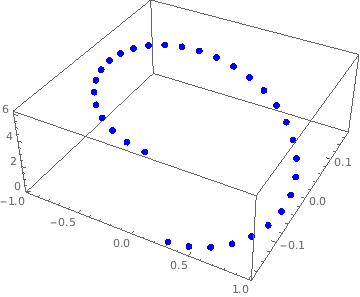
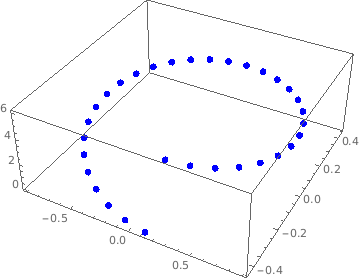
pi-aware NN-clock

diff --git a/tex/appendix/nb/wolfram/n-level.tex b/tex/appendix/nb/wolfram/n-level.tex
@@ -14,18 +14,17 @@ NN := 32
 \end{Verbatim}
 
 \begin{Verbatim}
-T := DiagonalMatrix[Range[0,NN-1]]
+T := DiagonalMatrix[Range[0,NN-1]] * \[Pi] / 16
 \end{Verbatim}
 
 \begin{Verbatim}
 F := FourierMatrix[NN]
 \end{Verbatim}
 
-For simplicity, $\hbar = 1$, there's no ``characteristic frequency'' $\omega$,
-and we ignore the dimensional term in front of \eqref{eq:SI_Fourier:T}:
+For simplicity, $\hbar = \omega = 1$
 
 \begin{Verbatim}
-\[CapitalOmega] := F.T.F\[ConjugateTranspose] 
+\[CapitalOmega] := F.T.F\[ConjugateTranspose]  * 16 / \[Pi]
 \end{Verbatim}
 
 Hamiltonian in "ordinary" space
@@ -79,14 +78,6 @@ probability := Abs[chosenEigenvectorNormalized ^2]
 
 probabilityB := Abs[chosenEigenvectorNormalizedB^2]
 
-probability
-
-Out[ ]= {0.716702, 0.283298, 0.771924, 0.228076, 0.785749, 0.214251, 0.756071, 0.243929, 0.687408, 0.312592, 0.590214, 0.409786, 0.479286, 0.520714, 0.371512, 0.628488, 0.283298, 0.716702, 0.228076, 0.771924, 0.214251, 0.785749, 0.243929, 0.756071, 0.312592, 0.687408, 0.409786, 0.590214, 0.520714, 0.479286, 0.628488, 0.371512, 0.716702, 0.283298, 0.771924, 0.228076, 0.785749, 0.214251, 0.756071, 0.243929, 0.687408, 0.312592, 0.590214, 0.409786, 0.479286, 0.520714, 0.371512, 0.628488, 0.283298, 0.716702, 0.228076, 0.771924, 0.214251, 0.785749, 0.243929, 0.756071, 0.312592, 0.687408, 0.409786, 0.590214, 0.520714, 0.479286, 0.628488, 0.371512}
-
-probabilityB
-
-Out[ ]= {0.881533, 0.118467, 0.744511, 0.255489, 0.570264, 0.429736, 0.38532, 0.61468, 0.217835, 0.782165, 0.0933066, 0.906693, 0.0306941, 0.969306, 0.0395291, 0.960471, 0.118467, 0.881533, 0.255489, 0.744511, 0.429736, 0.570264, 0.61468, 0.38532, 0.782165, 0.217835, 0.906693, 0.0933066, 0.969306, 0.0306941, 0.960471, 0.0395291, 0.881533, 0.118467, 0.744511, 0.255489, 0.570264, 0.429736, 0.38532, 0.61468, 0.217835, 0.782165, 0.0933066, 0.906693, 0.0306941, 0.969306, 0.0395291, 0.960471, 0.118467, 0.881533, 0.255489, 0.744511, 0.429736, 0.570264, 0.61468, 0.38532, 0.782165, 0.217835, 0.906693, 0.0933066, 0.969306, 0.0306941, 0.960471, 0.0395291}
-
 ListPlot[probability,
   GridLines ->{Range[0,NN*2, 2], Range[0, 1, 0.1]},
   AxesLabel->{n, "P(0), P(1)"},
@@ -120,27 +111,15 @@ ListPlot[probabilityB,
 
 \begin{Verbatim}
 psi0 :=  chosenEigenvectorNormalizedB[[{1,2}]]
-
-psi0
-
-Out[ ] = {-0.938878+0.00640243 I,0.299377 -0.169824 I}
 \end{Verbatim}
 
 \begin{Verbatim}
 psi[t_] := MatrixExp[-I Hs t, psi0 ]
-
-psi[t]
-
-{(-0.938878+0.00640243 I) Cos[t]+(0.299377 -0.169824 I) Sin[t],(0.299377 -0.169824 I) Cos[t]+(0.938878 -0.00640243 I) Sin[t]}
 \end{Verbatim}
 
 \begin{Verbatim}
-(Abs[psi[t]]^2)[[1]]
-
-Out[ ] = Abs[(-0.938878+0.00640243 I) Cos[t]+(0.299377 -0.169824 I) Sin[t]]^2
-
-Plot[Abs[(-0.938878+0.00640243 I) Cos[t]+(0.299377 -0.169824 I) Sin[t]]^2, {t,0,2\[Pi]}
-  AxesLabel->{t, "P(0"},
+Plot[(Abs[psi[t]]^2)[[1]],{t,0,2\[Pi]},
+  AxesLabel->{t, "P(0)"},
   LabelStyle->Directive[16],
   ImageSize->900
 ]
@@ -158,12 +137,8 @@ Plot[Abs[(-0.938878+0.00640243 I) Cos[t]+(0.299377 -0.169824 I) Sin[t]]^2, {t,0,
 \end{figure}
 
 \begin{Verbatim}
-(Abs[psi[t]]^2)[[2]]
-
-Out[ ] = Abs[(0.299377 -0.169824 I) Cos[t]+(0.938878 -0.00640243 I) Sin[t]]^2
-  
-Plot[Abs[(0.299377 -0.169824 I) Cos[t]+(0.938878 -0.00640243 I) Sin[t]]^2, {t,0,2\[Pi]}
-  AxesLabel->{t, "P(0"},
+Plot[(Abs[psi[t]]^2)[[2]],{t,0,2\[Pi]},
+  AxesLabel->{t, "P(1)"},
   LabelStyle->Directive[16],
   ImageSize->900
 ]
@@ -181,25 +156,16 @@ Plot[Abs[(0.299377 -0.169824 I) Cos[t]+(0.938878 -0.00640243 I) Sin[t]]^2, {t,0,
 \end{figure}
 
 \subsubsection{Complex evolution of $\psi$ (not just $\qty|\psi|^2$)}
-\begin{Verbatim}
-psi[t][[1]]
 
-Out[ ] = (-0.938878 +0.00640243 \[ImaginaryI]) Cos[t] + (0.299377 - 0.169824 \[ImaginaryI]) Sin[t]
-\end{Verbatim}
-\begin{Verbatim}
-psi[t][[2]]
-
-Out[ ]= (0.299377 -0.169824 \[ImaginaryI]) Cos[t] + (0.938878 -0.00640243 \[ImaginaryI]) Sin[t]
-\end{Verbatim}  
-Real and imaginary part: let's do this manually ---please note index count is
+Please note index count is
 $1, 2$ (cells above)
 but refers, respectively, to computational base elements
 $\ket{0}, \ket{1}$ in ordinary Hilbert space.
 \begin{Verbatim}
-re0psi[t_] := (-0.938878) Cos[t]  + (0.299377) Sin[t]
-im0psi[t_] := (0.00640243) Cos[t] + (- 0.169824 ) Sin[t]
-re1psi[t_] := (0.299377) Cos[t]   + (0.938878) Sin[t]
-im1psi[t_] := (- 0.169824) Cos[t] + (- 0.00640243) Sin[t] 
+re0psi[t_] := Simplify[Re[psi[t][[1]]], Assumptions->Element[t, Reals]]
+im0psi[t_] := Simplify[Im[psi[t][[1]]], Assumptions->Element[t, Reals]]
+re1psi[t_] := Simplify[Re[psi[t][[2]]], Assumptions->Element[t, Reals]]
+im1psi[t_] := Simplify[Im[psi[t][[2]]], Assumptions->Element[t, Reals]]
 \end{Verbatim}
 
 \begin{Verbatim}
@@ -247,11 +213,11 @@ scatter1[k_] := {Re[ rephased1[k]], Im[ rephased1[k]], pi*(k-2)/NN}
 
 scatterPoints = Map[scatter, Range[1,2*NN, 2]]
 
-Out[ ] = {{-0.938878,0.00640243,0.}, {-0.862432,-0.0268517,0.19635}, {-0.752844,-0.0590739,0.392699}, {-0.614324,-0.089026,0.589049}, {-0.452196,-0.115557,0.785398}, {-0.27269,-0.137647,0.981748}, {-0.0827052,-0.154447,1.1781}, {0.110458,-0.165312,1.37445}, {0.299377,-0.169824,1.5708}, {0.47679,-0.16781,1.76715}, {0.635881,-0.159347,1.9635}, {0.770535,-0.144761,2.15984}, {0.875578,-0.124611,2.35619}, {0.946973,-0.0996728,2.55254}, {0.981977,-0.0709041,2.74889}, {0.979243,-0.0394105,2.94524}, {0.938878,-0.00640243,3.14159}, {0.862432,0.0268517,3.33794}, {0.752844,0.0590739,3.53429}, {0.614324,0.089026,3.73064}, {0.452196,0.115557,3.92699}, {0.27269,0.137647,4.12334}, {0.0827052,0.154447,4.31969}, {-0.110458,0.165312,4.51604}, {-0.299377,0.169824,4.71239}, {-0.47679,0.16781,4.90874}, {-0.635881,0.159347,5.10509}, {-0.770535,0.144761,5.30144}, {-0.875578,0.124611,5.49779}, {-0.946973,0.0996728,5.69414}, {-0.981977,0.0709041,5.89049}, {-0.979243,0.0394105,6.08684}}
+Out[ ] = {{0.891003,-0.00706481,0.}, {0.896671,-0.0925068,0.19635}, {0.86788,-0.174394,0.392699}, {0.805737,-0.249579,0.589049}, {0.71263,-0.315173,0.785398}, {0.592137,-0.368655,0.981748}, {0.448889,-0.40797,1.1781}, {0.28839,-0.431607,1.37445}, {0.116809,-0.438657,1.5708}, {-0.0592618,-0.42885,1.76715}, {-0.233055,-0.402563,1.9635}, {-0.397892,-0.360805,2.15984}, {-0.547438,-0.305182,2.35619}, {-0.675946,-0.237831,2.55254}, {-0.778478,-0.16134,2.74889}, {-0.851094,-0.0786487,2.94524}, {-0.891003,0.00706481,3.14159}, {-0.896671,0.0925068,3.33794}, {-0.86788,0.174394,3.53429}, {-0.805737,0.249579,3.73064}, {-0.71263,0.315173,3.92699}, {-0.592137,0.368655,4.12334}, {-0.448889,0.40797,4.31969}, {-0.28839,0.431607,4.51604}, {-0.116809,0.438657,4.71239}, {0.0592618,0.42885,4.90874}, {0.233055,0.402563,5.10509}, {0.397892,0.360805,5.30144}, {0.547438,0.305182,5.49779}, {0.675946,0.237831,5.69414}, {0.778478,0.16134,5.89049}, {0.851094,0.0786487,6.08684}}
 
 scatterPoints1 = Map[scatter1, Range[2,2*NN, 2]]
 
-Out[ ] = {{0.299377,-0.169824,0.}, {0.47679,-0.16781,0.19635}, {0.635881,-0.159347,0.392699}, {0.770535,-0.144761,0.589049}, {0.875578,-0.124611,0.785398}, {0.946973,-0.0996728,0.981748}, {0.981977,-0.0709041,1.1781}, {0.979243,-0.0394105,1.37445}, {0.938878,-0.00640243,1.5708}, {0.862432,0.0268517,1.76715}, {0.752844,0.0590739,1.9635}, {0.614324,0.089026,2.15984}, {0.452196,0.115557,2.35619}, {0.27269,0.137647,2.55254}, {0.0827052,0.154447,2.74889}, {-0.110458,0.165312,2.94524}, {-0.299377,0.169824,3.14159}, {-0.47679,0.16781,3.33794}, {-0.635881,0.159347,3.53429}, {-0.770535,0.144761,3.73064}, {-0.875578,0.124611,3.92699}, {-0.946973,0.0996728,4.12334}, {-0.981977,0.0709041,4.31969}, {-0.979243,0.0394105,4.51604}, {-0.938878,0.00640243,4.71239}, {-0.862432,-0.0268517,4.90874}, {-0.752844,-0.0590739,5.10509}, {-0.614324,-0.089026,5.30144}, {-0.452196,-0.115557,5.49779}, {-0.27269,-0.137647,5.69414}, {-0.0827052,-0.154447,5.89049}, {0.110458,-0.165312,6.08684}}
+Out[ ] = {{0.116809,-0.438657,0.}, {-0.0592618,-0.42885,0.19635}, {-0.233055,-0.402563,0.392699}, {-0.397892,-0.360805,0.589049}, {-0.547438,-0.305182,0.785398}, {-0.675946,-0.237831,0.981748}, {-0.778478,-0.16134,1.1781}, {-0.851094,-0.0786487,1.37445}, {-0.891003,0.00706481,1.5708}, {-0.896671,0.0925068,1.76715}, {-0.86788,0.174394,1.9635}, {-0.805737,0.249579,2.15984}, {-0.71263,0.315173,2.35619}, {-0.592137,0.368655,2.55254}, {-0.448889,0.40797,2.74889}, {-0.28839,0.431607,2.94524}, {-0.116809,0.438657,3.14159}, {0.0592618,0.42885,3.33794}, {0.233055,0.402563,3.53429}, {0.397892,0.360805,3.73064}, {0.547438,0.305182,3.92699}, {0.675946,0.237831,4.12334}, {0.778478,0.16134,4.31969}, {0.851094,0.0786487,4.51604}, {0.891003,-0.00706481,4.71239}, {0.896671,-0.0925068,4.90874}, {0.86788,-0.174394,5.10509}, {0.805737,-0.249579,5.30144}, {0.71263,-0.315173,5.49779}, {0.592137,-0.368655,5.69414}, {0.448889,-0.40797,5.89049}, {0.28839,-0.431607,6.08684}}
 \end{Verbatim}
 
 \begin{Verbatim}
@@ -299,8 +265,8 @@ Show[zAxis, psi0plot,psi1plot,scatterPlot, scatterPlot1, ImageSize->Large,
 \end{Verbatim}
 \begin{figure}[!h]
   \centering
-  \includegraphics[width=0.4\textwidth]{img/PWfit32.png}
-  \includegraphics[width=0.6\textwidth]{img/PWfit32top.png}
+  \includegraphics[width=0.45\textwidth]{img/PWfit32.png}
+  \includegraphics[width=0.5\textwidth]{img/PWfit32top.png}
   \caption[(from notebook)]{
     Page-Wootters discrete-time ``evolution without evolution'' (points)
     is interpolated by the (continuous lines) of standard quantum mechanics

diff --git a/tex/pw/qubit.tex b/tex/pw/qubit.tex
@@ -496,3 +496,6 @@ theoretically, possibly resorting to numerical computation.
 Appendix \ref{appendix:n-level} contains the numeric computation details
 of an $N=32$-level clock, ``timing'' a qubit subject to the same hamiltonian
 of the experiment we have seen with eq.~\eqref{eq:H_S}.
+
+The clock is built as having an operator $\hat{T}$ which is diagonal in the
+\term{computational basis}.
